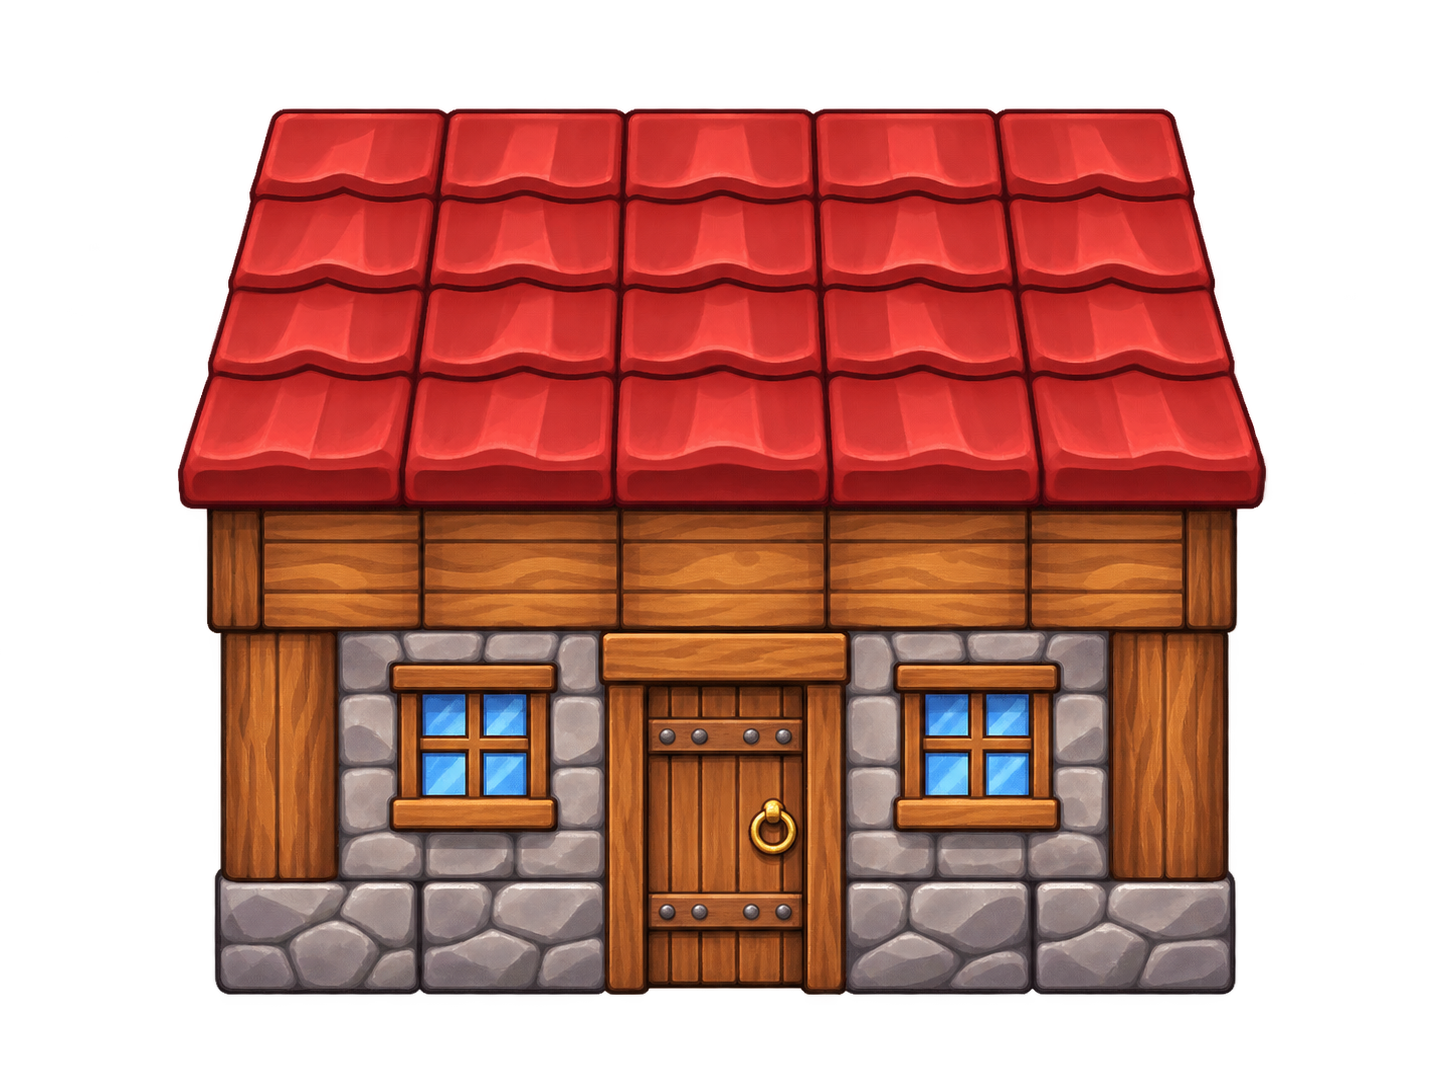
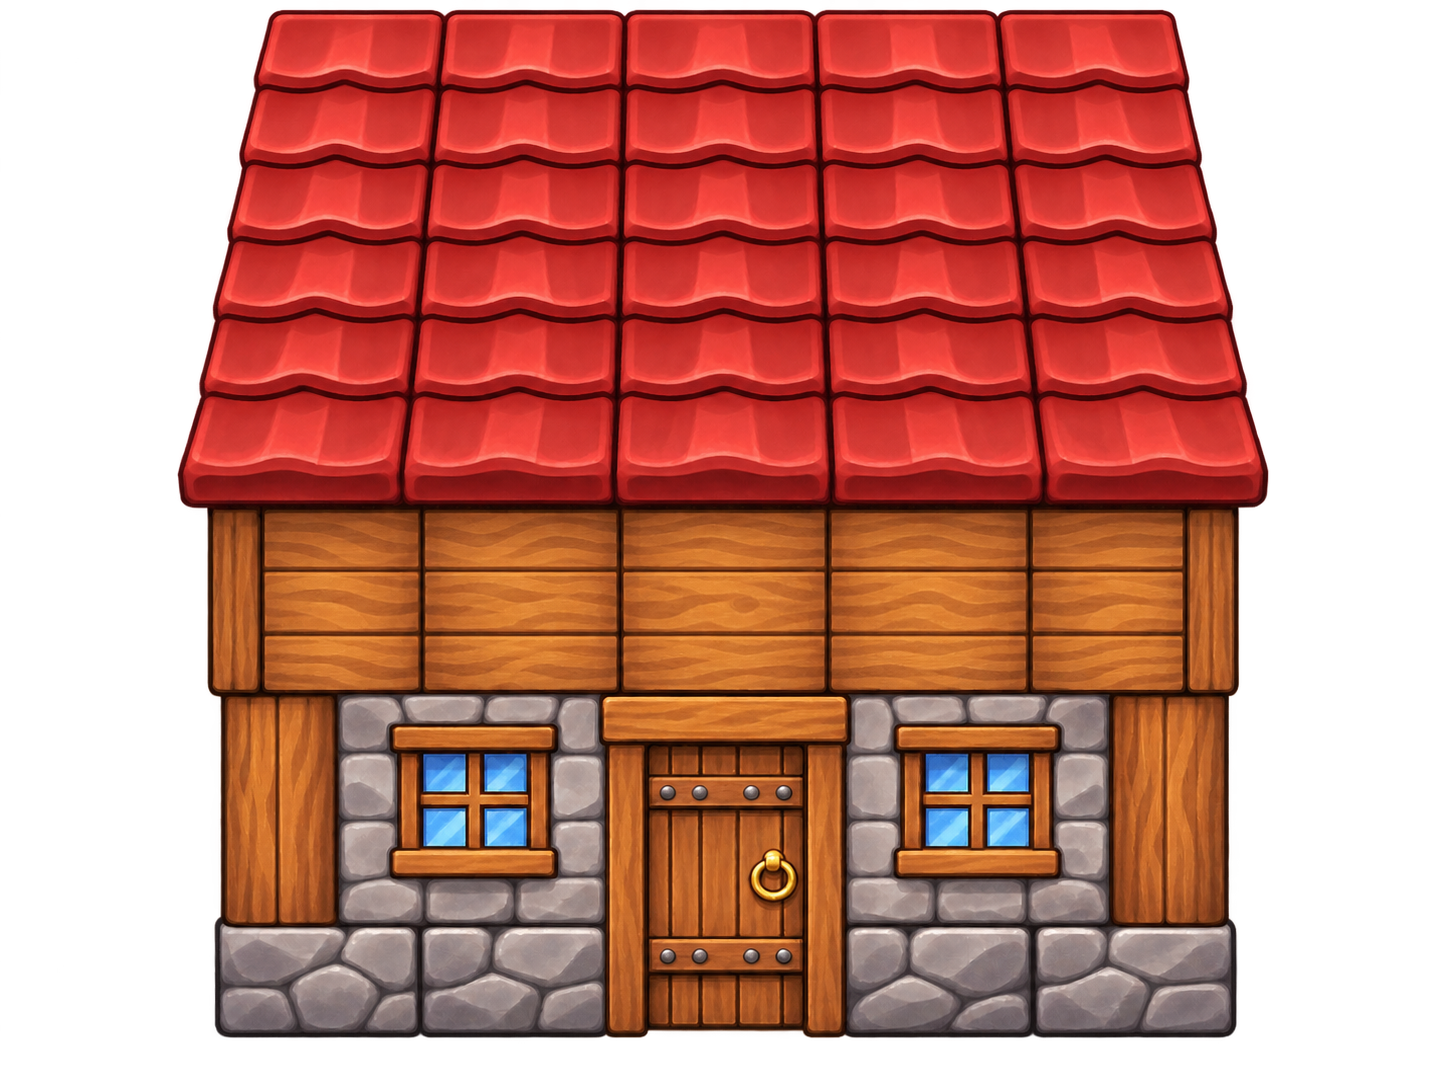
Cidade: nova casa de telhado vermelho e arbustos com arte fornecida
O dono do produto enviou uma nova versão da casa vermelha (parede de dois andares)
e a arte dos arbustos. A casa troca a imagem anterior com as faixas do telhado
recalibradas; a cerca viva passa a sortear entre os três arbustos (redondo, alto e
largo com flores) por posição, mantendo a cidade igual para todos. O script de
extração ganhou a montagem da tira de arbustos em escala única.

Claude-Session: https://claude.ai/code/session_01KGdgomm438trDHTLPLqJmv

diff --git a/src/render/townArt.ts b/src/render/townArt.ts
@@ -13,13 +13,17 @@ import type { Sprite } from './textures';
  */
 
 /** Imagens da cidade vindas do pacote de arte (null = pinta em código). */
-export interface TownImages { houseRed: HTMLImageElement | null }
+export interface TownImages { houseRed: HTMLImageElement | null; bushes: HTMLImageElement | null }
 
 /**
  * Faixas da imagem da casa vermelha (px da imagem de 320 de largura, `scripts/extract-town.py`): telhado em fileiras
  * de telhas (a fileira do meio se repete para cobrir casas mais fundas) e parede abaixo do beiral.
  */
-const HOUSE_RED = { roofTop: [0, 27], roofMid: [27, 54], roofBottom: [54, 120], wall: [120, 261], wallX: [0.026, 0.972] } as const;
+const HOUSE_RED = { roofTop: [0, 21], roofMid: [21, 43], roofBottom: [88, 148], wall: [148, 302], wallX: [0.028, 0.97] } as const;
+/** Tira dos arbustos (`town-bushes`): 3 quadros de 120 × 96 px (redondo, alto, largo) na mesma escala. */
+const BUSH_CELL = { w: 120, h: 96 } as const;
+/** Largura de mundo de 1 px da tira: o arbusto redondo (78 px) fica ~1,05 célula. */
+const BUSH_PX = (1.05 * TILE) / 78;
 
 type Ctx = CanvasRenderingContext2D;
 const T = TILE;
@@ -631,6 +635,17 @@ const hedge = () => prop(30, (ctx, cx, b) => {
   ctx.beginPath(); ctx.arc(cx - 7, b - 10, 9, Math.PI * 0.6, Math.PI * 1.3); ctx.arc(cx, b - 16, 10, Math.PI * 1.15, Math.PI * 1.85); ctx.arc(cx + 7, b - 10, 9, Math.PI * 1.7, Math.PI * 0.4); ctx.stroke();
 });
 
+/** Arbusto `i` da tira: escala única, centrado na célula, base no pé dela (o largo transborda para os lados). */
+function bushSprite(img: HTMLImageElement, i: number): Sprite {
+  const k = img.width / (BUSH_CELL.w * 3);
+  const w = BUSH_CELL.w * BUSH_PX;
+  const h = BUSH_CELL.h * BUSH_PX;
+  const [c, ctx] = makeCanvas(w, h);
+  shadow(ctx, w / 2 + 2, h - 3, 0.5 * TILE, 4);
+  ctx.drawImage(img, i * BUSH_CELL.w * k, 0, BUSH_CELL.w * k, BUSH_CELL.h * k, 0, 0, w, h);
+  return { canvas: c, ox: (TILE - w) / 2, oy: TILE - h + 1, w, h, hit: { x: 0, y: TILE - h, w: TILE, h } };
+}
+
 /** Sprites (com variações) de todas as construções e enfeites da cidade. */
 export function townSprites(images: TownImages): Map<BlockId, Sprite[]> {
   const m = new Map<BlockId, Sprite[]>();
@@ -658,7 +673,8 @@ export function townSprites(images: TownImages): Map<BlockId, Sprite[]> {
   m.set(Block.BARREL, [barrel()]);
   m.set(Block.CRATES, [crates()]);
   m.set(Block.SIGNPOST, [signpost()]);
-  m.set(Block.HEDGE, [hedge()]);
+  // Cerca viva: arbustos da imagem (redondo 2×, alto, largo) ou o desenho em código sem o pacote.
+  m.set(Block.HEDGE, images.bushes ? [0, 0, 1, 2].map((i) => bushSprite(images.bushes!, i)) : [hedge()]);
   return m;
 }
 

diff --git a/src/render/blockArt.ts b/src/render/blockArt.ts
@@ -28,6 +28,8 @@ let tent: HTMLImageElement | null = null;
 let chest: HTMLImageElement | null = null;
 /** Cidade: casa de telhado vermelho (imagem fornecida). */
 let townHouseRed: HTMLImageElement | null = null;
+/** Cidade: tira de arbustos (cerca viva). */
+let townBushes: HTMLImageElement | null = null;
 
 function load(url: string): Promise<HTMLImageElement> {
   return new Promise((resolve, reject) => {
@@ -47,7 +49,7 @@ export async function loadBlockArt(): Promise<void> {
   [atlas, celestial, oakDoor] = await Promise.all([maybe(a.blockAtlas), maybe(a.celestialAtlas), maybe(a.oakDoor)]);
   if (a.tent) tent = await load(a.tent.sprite);
   if (a.chest) chest = await load(a.chest.sprite);
-  if (a.town) townHouseRed = await load(a.town.houseRed);
+  if (a.town) [townHouseRed, townBushes] = await Promise.all([load(a.town.houseRed), load(a.town.bushes)]);
   if (a.water) {
     const [top, flow] = await Promise.all([load(a.water.top), load(a.water.flow)]);
     water = { top, flow };
@@ -89,4 +91,8 @@ export function getChestSprite(): HTMLImageElement | null {
 
 export function getTownHouseRed(): HTMLImageElement | null {
   return townHouseRed;
+}
+
+export function getTownBushes(): HTMLImageElement | null {
+  return townBushes;
 }

diff --git a/src/render/textures.ts b/src/render/textures.ts
@@ -2,7 +2,7 @@ import { CUBE_FRONT, TILE } from '../config';
 import { Block, type BlockId, CELESTIAL_BLOCKS, MATERIALS } from '../world/blocks';
 import { mulberry32 } from '../world/random';
 import { art } from './art';
-import { getBlockAtlas, getCelestialAtlas, getDungeonArt, getOakDoorSheet, getChestSprite, getTentSprite, getTownHouseRed, getWaterArt } from './blockArt';
+import { getBlockAtlas, getCelestialAtlas, getDungeonArt, getOakDoorSheet, getChestSprite, getTentSprite, getTownBushes, getTownHouseRed, getWaterArt } from './blockArt';
 import { celestialFaces, CELESTIAL_STYLE } from './celestialArt';
 import { rgba, shade } from './color';
 import { townSprites } from './townArt';
@@ -482,7 +482,7 @@ export function createBlockTextures(opts: { town?: boolean } = {}): BlockTexture
     [Block.LIGHT_BLOCK, '#ffe08a'],
     [Block.LAMP, '#ffd27a'],
   ]);
-  if (opts.town) for (const [id, sprites] of townSprites({ houseRed: getTownHouseRed() })) variants.set(id, sprites);
+  if (opts.town) for (const [id, sprites] of townSprites({ houseRed: getTownHouseRed(), bushes: getTownBushes() })) variants.set(id, sprites);
   const bankColor = new Map<BlockId, string>([
     [Block.GRASS, '#8a5a36'],
     [Block.DIRT, '#8a5a36'],

diff --git a/src/render/art/principal.ts b/src/render/art/principal.ts
@@ -60,6 +60,7 @@ import tentSprite from '../../assets/tent.webp?inline';
 import chestIcon from '../../assets/icon-block-chest.webp?inline';
 import chestSprite from '../../assets/chest.webp?inline';
 import townHouseRed from '../../assets/town-house-red.webp?inline';
+import townBushes from '../../assets/town-bushes.webp?inline';
 import waterTop from '../../assets/water-top.webp?inline';
 import waterFlow from '../../assets/water-flow.webp?inline';
 import wheatCrop from '../../assets/wheat-crop.webp?inline';
@@ -113,7 +114,7 @@ const pack: ArtPack = {
   uiIcons: { bag: bagIcon, character: characterIcon, skills: skillsIcon, builder: builderIcon },
   tent: { icon: tentIcon, sprite: tentSprite },
   chest: { icon: chestIcon, sprite: chestSprite },
-  town: { houseRed: townHouseRed },
+  town: { houseRed: townHouseRed, bushes: townBushes },
   water: { top: waterTop, flow: waterFlow },
   monsterDeaths: { 'spider-small': spiderSmallDeath, 'spider-big': spiderBigDeath, 'spider-boss': spiderBossDeath },
   wheatCrop,

diff --git a/src/render/art/types.ts b/src/render/art/types.ts
@@ -32,7 +32,7 @@ export interface ArtPack {
   /** Baú de Carvalho: ícone (vista inclinada) e sprite do mundo (de frente). */
   chest?: { icon: string; sprite: string };
   /** Cidade do Despertar: construções em imagem (`scripts/extract-town.py`); o resto é pintado em código. */
-  town?: { houseRed: string };
+  town?: { houseRed: string; bushes: string };
   /** Ícones de interface (bolsa do inventário). */
   uiIcons?: { bag: string; character: string; skills: string; builder: string };
   toolIcons: Partial<Record<ToolId, string>>;

diff --git a/scripts/extract-town.py b/scripts/extract-town.py
@@ -2,7 +2,10 @@
 """Arte da Cidade do Despertar: recorta e reduz as imagens de construção fornecidas.
 
 assets-src/town-house-red.png (casa de telhado vermelho, fundo transparente) → src/assets/town-house-red.png
-(largura 320 px = 5 células em 2×). Depois rode scripts/optimize-assets.py (PNG → WebP).
+(largura 320 px = 5 células em 2×).
+assets-src/town-bushes.png (3 arbustos lado a lado: redondo, alto, largo) → src/assets/town-bushes.png: tira de
+3 quadros de 120 × 96 px, mesma escala para todos, cada um centrado e com a base no pé do quadro.
+Depois rode scripts/optimize-assets.py (PNG → WebP).
 Imprime as linhas do recorte (telhado/parede) usadas em src/render/townArt.ts (HOUSE_RED_SLICES).
 """
 from pathlib import Path
@@ -12,6 +15,10 @@ ROOT = Path(__file__).resolve().parent.parent
 SRC = ROOT / 'assets-src' / 'town-house-red.png'
 OUT = ROOT / 'src' / 'assets' / 'town-house-red.png'
 WIDTH = 320
+BUSHES_SRC = ROOT / 'assets-src' / 'town-bushes.png'
+BUSHES_OUT = ROOT / 'src' / 'assets' / 'town-bushes.png'
+BUSH_CELL = (120, 96)
+BUSH_SCALE = 0.2
 
 
 def solid_bbox(im: Image.Image, min_count: int = 8):
@@ -37,6 +44,34 @@ def main() -> None:
     cx = crop.width // 2 - 150
     eave = next(y for y in range(int(crop.height * 0.3), crop.height) if px[cx, y][0] < 180 and px[cx, y][1] > 60)
     print(f'recorte {box} → {out.size}; beiral em y={round(eave * s)} (de {out.height})')
+    bushes()
+
+
+def bushes() -> None:
+    """Separa os arbustos pelas colunas vazias entre eles e monta a tira com escala única."""
+    im = Image.open(BUSHES_SRC).convert('RGBA')
+    a = im.getchannel('A').point(lambda v: 255 if v > 128 else 0)
+    w, h = a.size
+    px = a.load()
+    filled = [sum(1 for y in range(0, h, 2) if px[x, y]) > 3 for x in range(w)]
+    runs, start = [], None
+    for x, f in enumerate(filled + [False]):
+        if f and start is None:
+            start = x
+        if not f and start is not None:
+            if x - start > 40:
+                runs.append((start, x))
+            start = None
+    cw, ch = BUSH_CELL
+    strip = Image.new('RGBA', (cw * len(runs), ch))
+    for i, (x0, x1) in enumerate(runs):
+        part = im.crop((x0, 0, x1, h))
+        bb = solid_bbox(part, 2)
+        part = part.crop(bb)
+        part = part.resize((round(part.width * BUSH_SCALE), round(part.height * BUSH_SCALE)), Image.LANCZOS)
+        strip.alpha_composite(part, (i * cw + (cw - part.width) // 2, ch - part.height))
+        print(f'arbusto {i}: {part.size}')
+    strip.save(BUSHES_OUT)
 
 
 if __name__ == '__main__':

diff --git a/docs/CURRENT_STATE.md b/docs/CURRENT_STATE.md
@@ -1,6 +1,6 @@
 # Estado atual
 
-_Atualizado em 2026-11-03 — v0.35.2_
+_Atualizado em 2026-11-03 — v0.35.3_
 
 ## Mundos
 - **Mundo principal** (detalhado abaixo) e **Santuário Celestial da Deusa da Vida**: 10 chunks (5×2) de Nuvem
@@ -20,7 +20,7 @@ _Atualizado em 2026-11-03 — v0.35.2_
   pedra com 1–2 níveis, trilhas de caminho de terra, pedregulhos, capim e flores.
 - **Cidade do Despertar** (`domains/town.md`): cidade fixa (igual em toda seed) de 108 × 78 blocos ao norte da
   origem — muralha com torres e portão único ao sul, castelo ao norte, labirinto de ruas, praças, Guilda, Hospedaria,
-  Ferreiro, lojas e casas (sem interiores nem NPCs ainda). Casas vermelhas com a arte fornecida; o resto pintado em código. **Início e renascer sem tenda** na praça inicial. Área
+  Ferreiro, lojas e casas (sem interiores nem NPCs ainda). Casas vermelhas e arbustos com a arte fornecida; o resto pintado em código. **Início e renascer sem tenda** na praça inicial. Área
   protegida: nada quebra nem é colocado; tocar numa construção mostra o nome.
 - **Dungeon — Covil das Aranhas**: labirinto procedural (~100 × 72 blocos, muda com a seed) perto do spawn, com
   uma única entrada voltada para ele, câmaras, becos e circuitos; câmara da Rainha no ponto mais fundo, com uma só
@@ -88,6 +88,6 @@ _Atualizado em 2026-11-03 — v0.35.2_
 - 116 testes (Vitest) passando; typecheck limpo; build com 1 aviso intencional de tamanho do bundle.
 - Sessão automatizada longa (3 seeds, desktop e celular, 120 ações aleatórias cada) sem erros.
 - Geração de chunk ~0,08 ms; render ~0,4 ms/quadro (média, Chromium headless, inclusive dentro do labirinto).
-- Artefatos com **só a arte do próprio mundo** (ADR 0010): principal **3,14 MB** (acima da meta de 3 MB — ver `NEXT_STEPS`),
+- Artefatos com **só a arte do próprio mundo** (ADR 0010): principal **3,16 MB** (acima da meta de 3 MB — ver `NEXT_STEPS`),
   Santuário **0,69 MB**. Alerta do build alinhado à meta (~3 MB de HTML).
 - Publicados como Artifacts (mundo principal e Santuário): ver `OPERATIONS.md`.

diff --git a/docs/NEXT_STEPS.md b/docs/NEXT_STEPS.md
@@ -22,7 +22,7 @@ _Revisado em 2026-11-03 (v0.35.0 — Fases 0, 1 e 2 concluídas; Fase 3 em andam
 | Menu | ✅ | continuar, novo mundo, recomeçar |
 | Sons, música, vibração | ❌ | — |
 | Qualidade | ✅ | 116 testes, typecheck limpo, bench, verificação no navegador a cada entrega |
-| Peso dos artefatos | 🔴 | principal **3,14 MB — acima da meta de 3 MB** (o build avisa); Santuário 0,7 MB |
+| Peso dos artefatos | 🔴 | principal **3,16 MB — acima da meta de 3 MB** (o build avisa); Santuário 0,7 MB |
 
 ## 2. Plano por fases
 
@@ -99,7 +99,7 @@ migrar para IndexedDB se os mundos editados passarem de ~5 MB.
 - **Arte**: folhas 4×4 de NPCs da cidade (moradores, guardas, ferreiro, mercadores); (opcional) corações da HUD, aranhas por direção e heroína levando dano, árvores/água 3/4, nuvem contínua.
 
 ## 5. Riscos e dívidas técnicas
-- **Peso do artefato principal: 3,14 MB, acima da meta (decisão pendente)** (meta < 3 MB; o alerta do build foi alinhado à meta). A próxima
+- **Peso do artefato principal: 3,16 MB, acima da meta (decisão pendente)** (meta < 3 MB; o alerta do build foi alinhado à meta). A próxima
   folha grande estoura. Alavancas, da menos à mais invasiva: (1) folhas da heroína com ferramenta (10 folhas, ~1 MB)
   virarem a heroína base + sprite da ferramenta sobreposto (decisão de arte); (2) servir os assets como arquivos
   separados fora do Artifact (hospedagem própria); (3) baixar a qualidade das folhas grandes.

diff --git a/docs/OPERATIONS.md b/docs/OPERATIONS.md
@@ -84,9 +84,11 @@ qualquer prancha em grade, se precisar.
 → ícones `icon-block-stone*` e colunas 5 (Pedra Bruta) e 8–14 do `blocks-atlas` (rode **depois** de
 `extract-blocks.py` e `extract-ui.py`) → `optimize-assets.py`. Ordem total: blocks → ui → stones → optimize.
 
-**Cidade — construções em imagem** (`assets-src/town-house-red.png`, fundo transparente): `python3 scripts/extract-town.py`
-→ `src/assets/town-house-red.png` (320 px de largura; imprime a linha do beiral usada em `HOUSE_RED` de
-`render/townArt.ts`) → `optimize-assets.py`. Importada só em `render/art/principal.ts` (`town.houseRed`).
+**Cidade — arte em imagem** (`assets-src/town-house-red.png` e `town-bushes.png`, fundo transparente):
+`python3 scripts/extract-town.py` → `src/assets/town-house-red.png` (320 px de largura; imprime a linha do beiral; as
+faixas do telhado ficam em `HOUSE_RED` de `render/townArt.ts` — confira as linhas entre fileiras ao trocar a imagem) e
+`town-bushes.png` (tira de 3 quadros 120 × 96, mesma escala) → `optimize-assets.py`. Importadas só em
+`render/art/principal.ts` (`town.houseRed`, `town.bushes`).
 
 **Blocos**: `python3 scripts/extract-blocks.py` (prancha 3/4 `assets-src/blocks-sheet-34.png` → atlas + ícones).
 `--iso` usa a prancha isométrica antiga; `--out X.png` gera só o atlas (para comparar sem trocar os ícones).

diff --git a/docs/domains/town.md b/docs/domains/town.md
@@ -53,7 +53,8 @@ becos espalhados); (3) comércio e artesãos (ferreiro, lojas); (4) hospedaria e
 ## Arte (`render/townArt.ts`)
 **Casa de telhado vermelho: imagem fornecida** (`town-house-red`, no pacote de arte do mundo principal, ADR 0010),
 ajustada a cada tamanho — parede com escala uniforme na largura da casa e telhado remontado em fileiras (topo +
-fileira do meio repetida + beiral; faixas em `HOUSE_RED`). O restante é pintado em canvas (ilustração RPG/anime: contorno quente, luz de cima-esquerda, janelas acesas): **não pesa no
+fileira do meio repetida + beiral; faixas em `HOUSE_RED`). **Cerca viva: arbustos fornecidos** (`town-bushes`,
+tira de 3 quadros: redondo, alto, largo com flores; o redondo vale por 2 no sorteio). O restante é pintado em canvas (ilustração RPG/anime: contorno quente, luz de cima-esquerda, janelas acesas): **não pesa no
 artefato**. Casas com 6 variações (telhado vermelho/azul/alaranjado, oitão ou duas águas, enxaimel ou pedra,
 chaminé), castelo com torres de telhado cônico azul e estandartes, torres redondas com ameias, guilda (escudo com
 espadas), hospedaria (placa de cama), ferreiro (forja acesa, bigorna, fumaça), lojas com toldos, fonte, poço,

diff --git a/docs/CHANGELOG.md b/docs/CHANGELOG.md
@@ -1,5 +1,10 @@
 # Changelog
 
+## 0.35.3 — 2026-11-03
+- **Nova arte da casa de telhado vermelho** (telhado com 6 fileiras e parede de dois andares: madeira sobre pedra).
+- **Arbustos da cidade com arte fornecida** (`assets-src/town-bushes.png`): a cerca viva usa 3 arbustos (redondo,
+  alto e largo com flores), sorteados por posição (fixos como a cidade); mesma escala, base no pé da célula.
+
 ## 0.35.2 — 2026-11-03
 - **Casa de telhado vermelho com a arte fornecida** (`assets-src/town-house-red.png` → `scripts/extract-town.py`):
   todas as casas vermelhas da cidade usam a imagem, em qualquer tamanho (parede na largura da casa; telhado remontado
